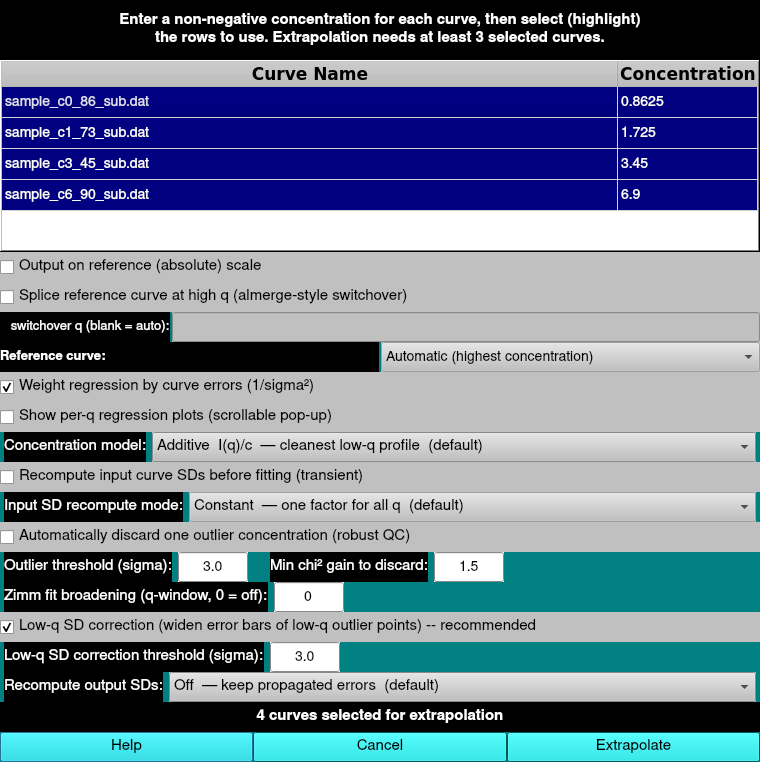
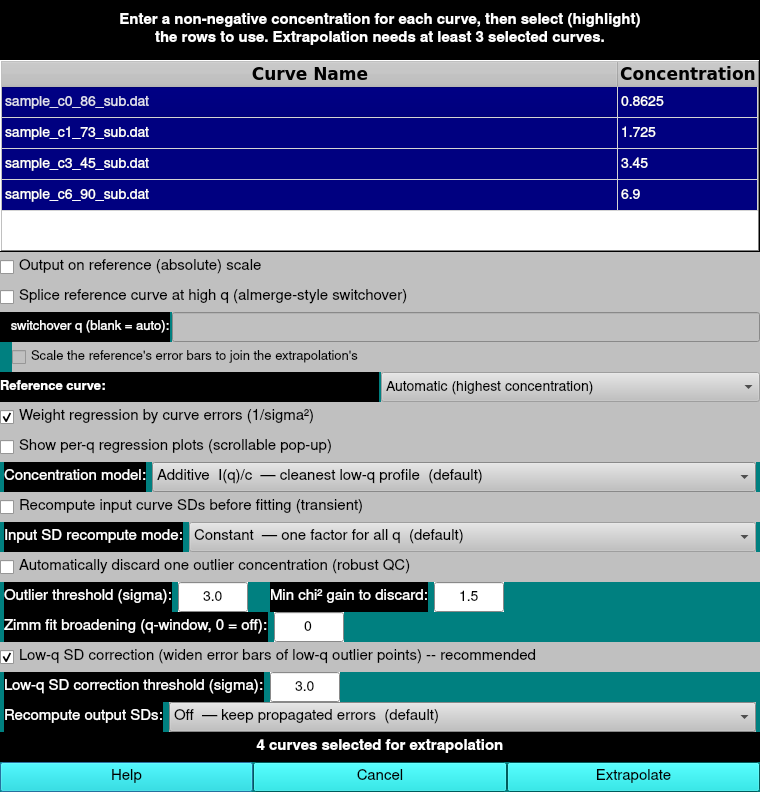
extrap-c0: optional splice error-bar join (one factor on the reference's SDs)
High-q reference splice: the extrapolation is usually much less certain
than one measured curve, so the spliced reference's own error bars drop by
a large step at the switchover and give the high-q tail most of the
1/sigma^2 weight in any later fit (Guinier, GNOM, NNLS).

New option, off by default: scale the spliced reference's error bars by
one factor k, the median ratio of the extrapolation's error bar to the
(continuity-scaled) reference's over the 25 points below the switchover.
The error bars then join at the switchover with no step, the tail keeps
the reference's own q-dependence, and no extrapolated error bars are needed
above the switchover (where the fit may have skipped q). k is applied only
when it is above 1, so the tail never claims less noise than the measured
reference has; fewer than 3 usable points below the switchover skips the
join. k is reported in the log and the run summary, and the output name
gains _sdj after the _q value.

- Dialog: checkbox "Scale the reference's error bars to join the
  extrapolation's" under the switchover q, enabled only with the splice
- Script: merge_sd_join 0|1 (default 0)
- Help page: splice section, name token, script directive; dialog
  screenshot regenerated

Validated on a Linux build against the unchanged branch tip: on a 5-curve
lysozyme series spliced at q 0.1, k = 6.050 (virial2, also on the
absolute scale) and 3.596 (additive); intensities and below-switchover
[…]

Changed region(s): [[0.0, 0.0, 1.0, 0.9961], [0.7868, 0.9659, 0.8776, 0.9961], [0.1513, 0.9659, 0.1816, 0.9961]]

diff --git a/us_somo/somo/doc/manual/somo/somo_saxs_extrap_c0.html b/us_somo/somo/doc/manual/somo/somo_saxs_extrap_c0.html
@@ -197,6 +197,20 @@ standard error; at and above it they are the reference's own, scaled by the cont
 Because the extrapolation is usually much less certain than a single measured curve, the error bars
 step down at the merge; that step reflects a real difference in information.
 
+<p><b>Scale the reference's error bars to join the extrapolation's</b> (off by default). That
+step also hands the spliced high-<i>q</i> part most of the 1/<i>&sigma;</i><sup>2</sup> weight in any
+later fit (Guinier, GNOM, NNLS), so the high-<i>q</i> data can dominate a fit whose information is
+mostly at low <i>q</i>. With this box checked, the spliced reference's error bars are multiplied by
+one factor: the median ratio of the extrapolation's error bars to the reference's (after the
+continuity factor) over the same 25 points just below the merge. The error bars then join at the
+merge with no step, while the high-<i>q</i> part keeps the reference's own <i>q</i>-dependence and
+needs no extrapolated error bars above the merge (where the fit may have skipped points). The
+factor is applied only when it is above 1, so the spliced part is never given smaller error bars than
+the measured reference curve has; it is reported in the log, and the output name gains
+<code>_sdj</code>. On a five-curve lysozyme series spliced at <i>q</i>&nbsp;=&nbsp;0.1 the factor was
+about 6 (nearly the same whether 25, 50 or 100 points were used), lowering the share of the total fit
+weight above the merge from 99.6% to 89%.
+
 <p>Whenever a splice is made, the log reports the <b>splice check</b>: the inverse-variance mean
 ratio of extrapolation to reference, with its standard error, over the points just below the
 merge. If the two differ by more than 5% and more than three standard errors, a warning says so,
@@ -418,7 +432,8 @@ that produced it &mdash; the concentration model
 (<code>_add</code>&nbsp;/&nbsp;<code>_recip</code>&nbsp;/&nbsp;<code>_virial2</code>), then
 <code>_abs</code> if on the reference scale and <code>_merge</code> if the reference was
 spliced &mdash; and, when spliced, the merge point <i>q</i> (with the decimal written as an
-underscore, e.g. <code>_merge_q0_0898</code> for a cutover at <i>q</i>&nbsp;=&nbsp;0.0898),
+underscore, e.g. <code>_merge_q0_0898</code> for a cutover at <i>q</i>&nbsp;=&nbsp;0.0898)
+followed by <code>_sdj</code> if the reference's error bars were scaled to join the extrapolation's,
 <code>_fb</code><i>N</i> for a manual fit-broadening window, <code>_nolqsd</code> if the low-<i>q</i>
 SD correction was off or <code>_lqsd</code><i>x</i> for a non-default threshold, <code>_refc</code><i>c</i> if a
 reference curve was chosen explicitly (with its concentration, decimal written as an underscore),
@@ -506,6 +521,8 @@ affected curves are named in the log. Set 0 to reproduce the raw, unrepaired beh
 (default <code>additive</code>).<br>
 <code>merge_q&nbsp;<i>q</i></code> &mdash; pin the splice switchover to this <i>q</i> instead of
 locating it automatically (requires <code>merge_ref&nbsp;1</code>; blank or 0 = automatic).<br>
+<code>merge_sd_join&nbsp;0|1</code> (default&nbsp;0) &mdash; scale the spliced reference's error bars
+to join the extrapolation's at the merge (requires <code>merge_ref&nbsp;1</code>).<br>
 <code>ref_scale&nbsp;0|1</code>, <code>merge_ref&nbsp;0|1</code> &mdash; output on the reference
 absolute scale, and splice the reference above the merge point.<br>
 <code>sd_weights&nbsp;0|1</code> (default&nbsp;1), <code>fit_broaden&nbsp;<i>N</i></code>

diff --git a/us_somo/develop/src/us_hydrodyn_saxs_iqq_extrap_c0.cpp b/us_somo/develop/src/us_hydrodyn_saxs_iqq_extrap_c0.cpp
@@ -45,7 +45,8 @@ static QString us_extrap_c0_curve_name( const QStringList &names, int model, boo
                                         bool merge_ref, double merge_q, int sd_mode,
                                         int n_outlier_dropped, bool unweighted, int ri_mode,
                                         int fit_broaden, double ref_override_conc,
-                                        bool raw_residual, bool se_repair, double se_repair_sigma )
+                                        bool raw_residual, bool se_repair, double se_repair_sigma,
+                                        bool sd_join )
 {
    // Method token encoding the choices that produced the curve, so distinct selections give
    // distinct (self-describing) names rather than colliding on a bare -1/-2 suffix.
@@ -62,6 +63,8 @@ static QString us_extrap_c0_curve_name( const QStringList &names, int model, boo
       if ( merge_q > 0e0 )
       {
          method += "_q" + QString::number( merge_q, 'f', 4 ).replace( '.', '_' );
+         // the spliced reference's error bars were scaled to join the extrapolation's
+         if ( sd_join ) { method += "_sdj"; }
       }
       // merge_q == 0 => splice requested but no cutover located (whole curve extrapolated)
    }
@@ -670,6 +673,9 @@ void US_Hydrodyn_Saxs::do_extrap_c0(
    // Manual splice switchover: if > 0 and merge_ref is on, force the merge point to the nearest
    // grid q instead of auto-locating it. 0 = automatic (default).
    double  merge_q_override = 0e0;
+   // Scale the spliced reference's error bars by one factor so they join the extrapolation's at the
+   // switchover (see 6b2). Off by default: the reference keeps its own error bars.
+   bool    merge_sd_join    = false;
    double outlier_sigma       = 3e0;   // detection threshold: median standardized residual across q
    double outlier_chi2_ratio  = 1.5e0; // required pooled reduced-chi^2 improvement to confirm a drop
    if ( extrap_c0_script )
@@ -716,12 +722,13 @@ void US_Hydrodyn_Saxs::do_extrap_c0(
       outlier_leverage   = extrap_c0_script_outlier_leverage;
       ref_override       = extrap_c0_script_reference;
       merge_q_override   = extrap_c0_script_merge_q;
+      merge_sd_join      = extrap_c0_script_merge_sd_join;
       outlier_sigma      = extrap_c0_script_outlier_sigma;
       outlier_chi2_ratio = extrap_c0_script_outlier_chi2;
    }
    else
    {
-      US_Hydrodyn_Saxs_Iqq_Extrap_C0_Conc dlg( ordered_names, prepop_conc, &name_to_conc, &selected_names, &dlg_ok, &ref_scale, &merge_ref, &show_regplots, &fit_broaden, &se_repair, &se_repair_sigma, &use_sd_weights, &extrap_model, &recompute_inputs, &recompute_inputs_mode, &sd_mode, &discard_outlier, &outlier_sigma, &outlier_chi2_ratio, &ref_override, &merge_q_override, us_hydrodyn, this );
+      US_Hydrodyn_Saxs_Iqq_Extrap_C0_Conc dlg( ordered_names, prepop_conc, &name_to_conc, &selected_names, &dlg_ok, &ref_scale, &merge_ref, &show_regplots, &fit_broaden, &se_repair, &se_repair_sigma, &use_sd_weights, &extrap_model, &recompute_inputs, &recompute_inputs_mode, &sd_mode, &discard_outlier, &outlier_sigma, &outlier_chi2_ratio, &ref_override, &merge_q_override, &merge_sd_join, us_hydrodyn, this );
       US_Hydrodyn::fixWinButtons( &dlg );
       dlg.exec();
    }
@@ -1210,6 +1217,7 @@ void US_Hydrodyn_Saxs::do_extrap_c0(
    vector < double > Iref_full;                 // reference (highest-conc) raw I(q), full grid
    int    merge_idx = 0;                        // grid index: output = reference from here up
    double merge_q   = 0e0;                      // q at the merge point (0 => no merge / all reference)
+   double ref_sd_join = 1e0;                    // factor on the spliced reference's error bars (1 => none)
    double pvalue_alpha = 1e-2;                  // CORMAP merge-point significance (cf. cormap_alpha)
 
    if ( use_ref_path )
@@ -1953,6 +1961,56 @@ void US_Hydrodyn_Saxs::do_extrap_c0(
                           .arg( ref_cont, 0, 'f', 3 ) );
             }
          }
+
+         // Optional error-bar join. The extrapolation is usually much less certain than one measured
+         // curve, so the spliced reference's own error bars drop by a large step at the switchover and
+         // hand the high-q tail most of the 1/sigma^2 weight in any later fit (Guinier, GNOM, NNLS).
+         // Scale them by one factor -- the median ratio of the extrapolation's error bar to the
+         // (continuity-scaled) reference's over the same window -- so the two join at the switchover
+         // while the tail keeps the reference's own q-dependence, and no extrapolated error bars are
+         // needed above the switchover (where the fit may have skipped q). Applied only when it widens
+         // them: the tail is one measured curve, so it never claims less noise than that curve has.
+         if ( merge_sd_join )
+         {
+            vector < double > sdr;
+            for ( int i = w0; i < merge_idx; i++ )
+            {
+               if ( grid_to_out[ i ] < 0 || i >= (int) ref_sd.size() ) { continue; }
+               double sn = ref_sd[ i ] / ( c_ref > 0e0 ? c_ref : 1e0 ) * qAbs( ref_cont );
+               double se = out_I0_err[ grid_to_out[ i ] ];
+               if ( sn > 0e0 && se > 0e0 && !us_isnan( se ) ) { sdr.push_back( se / sn ); }
+            }
+            if ( sdr.size() < 3 )
+            {
+               editor_msg( "dark red",
+                          QString( us_tr( "Reference splice error-bar join skipped: only %1 point(s) just below the "
+                                          "switchover have error bars on both the extrapolation and the reference; "
+                                          "the reference's own error bars are kept.\n" ) ).arg( (int) sdr.size() ) );
+            }
+            else
+            {
+               std::sort( sdr.begin(), sdr.end() );
+               double k = sdr[ sdr.size() / 2 ];                             // median
+               if ( k > 1e0 )
+               {
+                  ref_sd_join = k;
+                  editor_msg( "black",
+                             QString( us_tr( "Reference splice error-bar join: the spliced reference's error bars are "
+                                             "scaled by %1, the median ratio of the extrapolation's error bars to the "
+                                             "reference's over the %2 points below the switchover, so they join there "
+                                             "with no step; the reference's own q-dependence is kept.\n" ) )
+                             .arg( k, 0, 'f', 3 ).arg( (int) sdr.size() ) );
+               }
+               else
+               {
+                  editor_msg( "black",
+                             QString( us_tr( "Reference splice error-bar join: not applied -- just below the switchover "
+                                             "the extrapolation's error bars are no larger than the reference's (median "
+                                             "ratio %1 over %2 points); the reference's own error bars are kept.\n" ) )
+                             .arg( k, 0, 'f', 3 ).arg( (int) sdr.size() ) );
+               }
+            }
+         }
       }
 
       vector < double > nq, nI, nE;
@@ -1962,7 +2020,7 @@ void US_Hydrodyn_Saxs::do_extrap_c0(
          {
             nq.push_back( q[ qi ] );
             nI.push_back( ( qi < Iref_full.size() ? Iref_full[ qi ] : 0e0 ) * refdiv * ref_cont );
-            nE.push_back( ( qi < ref_sd.size() ? ref_sd[ qi ] : 0e0 ) * refdiv * ref_cont );
+            nE.push_back( ( qi < ref_sd.size() ? ref_sd[ qi ] : 0e0 ) * refdiv * ref_cont * ref_sd_join );
          }
          else if ( grid_to_out[ qi ] >= 0 )
          {
@@ -2079,7 +2137,8 @@ void US_Hydrodyn_Saxs::do_extrap_c0(
    QString base_name  = us_extrap_c0_curve_name( ordered_names, extrap_model, ref_scale, merge_ref, merge_q, sd_mode, n_outlier_dropped, !use_sd_weights,
                                                   recompute_inputs ? ( recompute_inputs_mode + 1 ) : 0,
                                                   fit_broaden_effective, ref_override_conc_used,
-                                                  !outlier_leverage, se_repair, se_repair_sigma );
+                                                  !outlier_leverage, se_repair, se_repair_sigma,
+                                                  ref_sd_join != 1e0 );
    QString final_name = base_name;
    {
       int suffix = 1;
@@ -2142,7 +2201,10 @@ void US_Hydrodyn_Saxs::do_extrap_c0(
       : QString( us_tr( "normalized (tagged Conc:1)" ) );
    QString merge_note = merge_ref
       ? ( merge_q > 0e0
-          ? QString( us_tr( "; reference curve spliced above q = %1" ) ).arg( merge_q )
+          ? QString( us_tr( "; reference curve spliced above q = %1%2" ) ).arg( merge_q )
+            .arg( ref_sd_join != 1e0
+                  ? QString( us_tr( ", its error bars x%1 to join the extrapolation's" ) ).arg( ref_sd_join, 0, 'f', 3 )
+                  : QString( "" ) )
           : QString( us_tr( "; reference splice requested but skipped (no merge point found)" ) ) )
       : QString( us_tr( "; no high-q reference splice" ) );
    editor_msg( "black",

diff --git a/us_somo/develop/src/us_hydrodyn_saxs_iqq_extrap_c0_conc.cpp b/us_somo/develop/src/us_hydrodyn_saxs_iqq_extrap_c0_conc.cpp
@@ -31,6 +31,7 @@ US_Hydrodyn_Saxs_Iqq_Extrap_C0_Conc::US_Hydrodyn_Saxs_Iqq_Extrap_C0_Conc(
                                                                           double *out_outlier_chi2_ratio,
                                                                           QString *out_reference,
                                                                           double *out_merge_q,
+                                                                          bool *out_merge_sd_join,
                                                                           void *us_hydrodyn,
                                                                           QWidget *p,
                                                                           const char *
@@ -57,6 +58,7 @@ US_Hydrodyn_Saxs_Iqq_Extrap_C0_Conc::US_Hydrodyn_Saxs_Iqq_Extrap_C0_Conc(
    this->out_outlier_chi2_ratio = out_outlier_chi2_ratio;
    this->out_reference          = out_reference;
    this->out_merge_q            = out_merge_q;
+   this->out_merge_sd_join      = out_merge_sd_join;
    this->us_hydrodyn        = us_hydrodyn;
 
    *out_ok = false;
@@ -184,6 +186,24 @@ void US_Hydrodyn_Saxs_Iqq_Extrap_C0_Conc::setupGUI()
                                 "Enter a q value to pin it there instead -- needed on many real dilution series,\n"
                                 "where the automatic test finds no agreement. Only used when the high-q splice\n"
                                 "is enabled." ) );
+
+   // Optional error-bar join at the splice: one factor on the reference's error bars.
+   cb_merge_sd_join = new QCheckBox( us_tr( "Scale the reference's error bars to join the extrapolation's" ), this );
+   cb_merge_sd_join->setChecked( false );
+   cb_merge_sd_join->setFont( QFont( USglobal->config_list.fontFamily, USglobal->config_list.fontSize - 1 ) );
+   cb_merge_sd_join->setPalette( PALET_NORMAL );
+   AUTFBACK( cb_merge_sd_join );
+   cb_merge_sd_join->setMinimumHeight( minHeight1 );
+   cb_merge_sd_join->setToolTip(
+                         us_tr( "Unchecked: the spliced reference keeps its own error bars. These are usually much\n"
+                                "smaller than the extrapolation's, so the error bars drop by a step at the switchover\n"
+                                "and the high-q part carries most of the weight in a later fit (Guinier, GNOM, NNLS).\n\n"
+                                "Checked: multiply the spliced reference's error bars by one factor -- the median\n"
+                                "ratio of the extrapolation's error bars to the reference's over the 25 points below\n"
+                                "the switchover -- so they join there with no step. The high-q part keeps the\n"
+                                "reference's own q-dependence, and is never given smaller error bars than the\n"
+                                "reference's own (the factor is applied only when it is above 1). The factor is\n"
+                                "reported in the log. Only used when the high-q splice is enabled." ) );
 
    // Reference-curve selection. Default = automatic (highest concentration), which is the right
    // default because intensity scales with concentration, so the top curve normally has the best
@@ -565,6 +585,12 @@ void US_Hydrodyn_Saxs_Iqq_Extrap_C0_Conc::setupGUI()
       background->addLayout( hbl_merge_q );
    }
    {
+      QHBoxLayout *hbl_merge_sd_join = new QHBoxLayout(); hbl_merge_sd_join->setContentsMargins( 0, 0, 0, 0 ); hbl_merge_sd_join->setSpacing( 0 );
+      hbl_merge_sd_join->addSpacing( 12 );
+      hbl_merge_sd_join->addWidget( cb_merge_sd_join );
+      background->addLayout( hbl_merge_sd_join );
+   }
+   {
       QHBoxLayout *hbl_reference = new QHBoxLayout(); hbl_reference->setContentsMargins( 0, 0, 0, 0 ); hbl_reference->setSpacing( 2 );
       hbl_reference->addWidget( lbl_reference );
       hbl_reference->addWidget( cb_reference );
@@ -635,6 +661,7 @@ void US_Hydrodyn_Saxs_Iqq_Extrap_C0_Conc::refresh_reference_enabled()
    lbl_reference->setEnabled( enable );
    le_merge_q->setEnabled( cb_merge->isChecked() );
    lbl_merge_q->setEnabled( cb_merge->isChecked() );
+   cb_merge_sd_join->setEnabled( cb_merge->isChecked() );
 }
 
 void US_Hydrodyn_Saxs_Iqq_Extrap_C0_Conc::populate_table()
@@ -754,6 +781,7 @@ void US_Hydrodyn_Saxs_Iqq_Extrap_C0_Conc::ok()
    }
    *out_ref_scale       = cb_ref_scale->isChecked();
    *out_merge_ref       = cb_merge->isChecked();
+   *out_merge_sd_join   = cb_merge->isChecked() && cb_merge_sd_join->isChecked();
    *out_show_regplots = cb_regplots->isChecked();
    *out_se_repair     = cb_se_repair->isChecked();
    {

diff --git a/us_somo/develop/src/us_hydrodyn_saxs_iqq_extrap_c0_script.cpp b/us_somo/develop/src/us_hydrodyn_saxs_iqq_extrap_c0_script.cpp
@@ -35,6 +35,11 @@
 //                                      auto-locating it. Requires merge_ref 1. 0 = automatic.
 //                                      Lets you test a specific cut, or override an automatic
 //                                      placement distorted by the regularization near that point.)
+//   merge_sd_join   0 | 1             (scale the spliced reference's error bars by one factor so they
+//                                      join the extrapolation's at the switchover: the median ratio
+//                                      of the extrapolation's SD to the (continuity-scaled) reference
+//                                      SD over the 25 points below it; applied only when > 1. Keeps
+//                                      the reference's own q-dependence. Default 0.)
 //   gcv             0 | 1             (OBSOLETE: automatic GCV slope regularization was removed
 //                                      2026-11-12; "gcv 0" is accepted silently, "gcv 1" is ignored
 //                                      with a note. gcv_lambda likewise is ignored with a note.)
@@ -232,6 +237,7 @@ void US_Hydrodyn_Saxs::saxs_extrap_c0_script( QString controlfile )
    extrap_c0_script_outlier_leverage = true;
    extrap_c0_script_reference.clear();
    extrap_c0_script_merge_q        = 0e0;
+   extrap_c0_script_merge_sd_join  = false;
    extrap_c0_script_se_repair      = true;
    extrap_c0_script_se_repair_sigma = 3e0;
    extrap_c0_script_conc.clear();
@@ -304,6 +310,7 @@ void US_Hydrodyn_Saxs::saxs_extrap_c0_script( QString controlfile )
       else if ( key == "outlier_leverage" ){ extrap_c0_script_outlier_leverage = ( val.toInt() != 0 ); }
       else if ( key == "reference" )       { extrap_c0_script_reference      = val; }
       else if ( key == "merge_q" )         { extrap_c0_script_merge_q       = val.toDouble(); }
+      else if ( key == "merge_sd_join" )   { extrap_c0_script_merge_sd_join = ( val.toInt() != 0 ); }
       else if ( key == "se_repair" )       { extrap_c0_script_se_repair     = ( val.toInt() != 0 ); }
       else if ( key == "se_repair_sigma" )
       {

diff --git a/us_somo/develop/include/us_hydrodyn_saxs_iqq_extrap_c0_conc.h b/us_somo/develop/include/us_hydrodyn_saxs_iqq_extrap_c0_conc.h
@@ -51,6 +51,7 @@ class US_EXTERN US_Hydrodyn_Saxs_Iqq_Extrap_C0_Conc : public QDialog
                                           double *out_outlier_chi2_ratio,
                                           QString *out_reference,
                                           double *out_merge_q,
+                                          bool *out_merge_sd_join,
                                           void *us_hydrodyn,
                                           QWidget *p = 0,
                                           const char *name = 0
@@ -67,6 +68,7 @@ class US_EXTERN US_Hydrodyn_Saxs_Iqq_Extrap_C0_Conc : public QDialog
       QComboBox    *cb_reference;
       QLabel       *lbl_merge_q;
       QLineEdit    *le_merge_q;
+      QCheckBox    *cb_merge_sd_join;
       QCheckBox    *cb_se_repair;
       QLabel       *lbl_se_repair_sigma;
       QLineEdit    *le_se_repair_sigma;
@@ -114,6 +116,7 @@ class US_EXTERN US_Hydrodyn_Saxs_Iqq_Extrap_C0_Conc : public QDialog
       double       *out_outlier_chi2_ratio;
       QString      *out_reference;
       double       *out_merge_q;
+      bool         *out_merge_sd_join;
       void         *us_hydrodyn;
 
       bool          disable_updates;

diff --git a/us_somo/develop/include/us_hydrodyn_saxs.h b/us_somo/develop/include/us_hydrodyn_saxs.h
@@ -838,6 +838,7 @@ class US_EXTERN US_Hydrodyn_Saxs : public QFrame
       bool   extrap_c0_script_outlier_leverage = true;     // studentize nomination residual by sqrt(1-h)
       QString extrap_c0_script_reference;                  // explicit reference curve (name or conc); "" = max conc
       double  extrap_c0_script_merge_q       = 0e0;        // manual splice switchover q; 0 = automatic
+      bool    extrap_c0_script_merge_sd_join = false;      // scale spliced reference SDs to join the extrapolation's
       bool    extrap_c0_script_se_repair     = true;       // low-q SD correction of the output errors
       double  extrap_c0_script_se_repair_sigma = 3e0;      // ...only for points > this many sd off the trend
 
